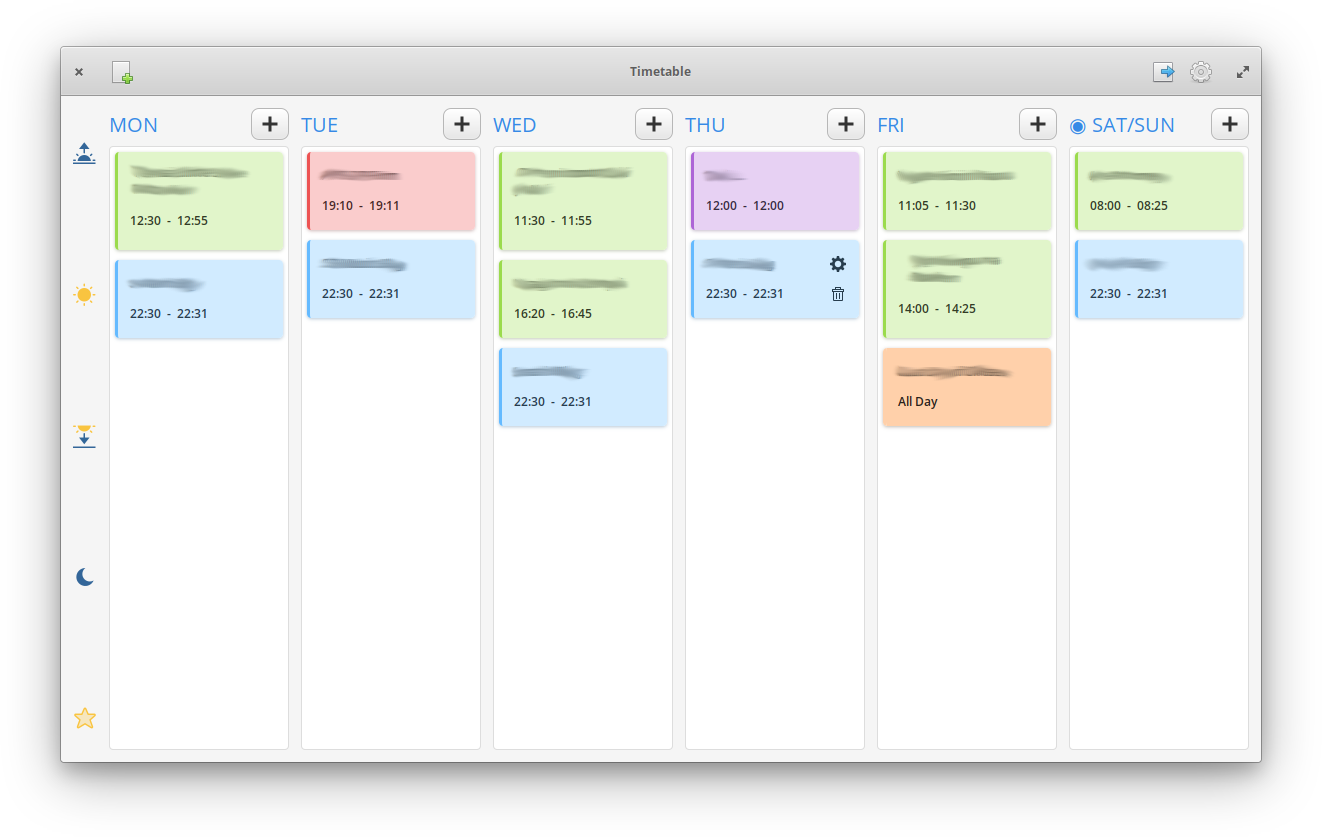
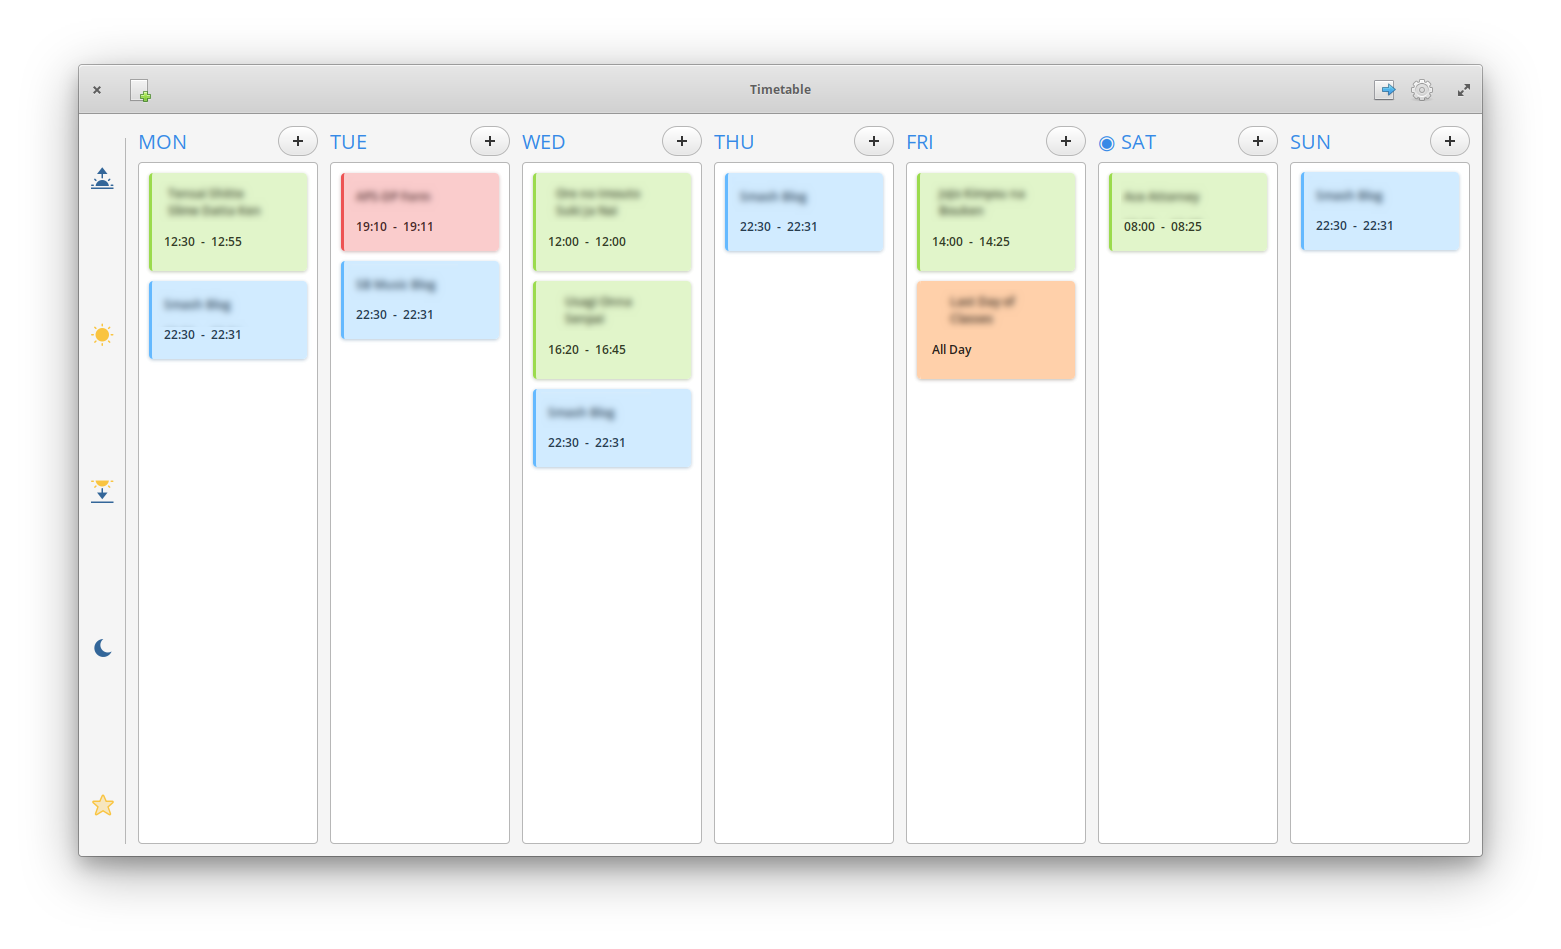
1.0.2 - Made separate columns for weekend days

Changed region(s): [[0.031, 0.0621, 0.9614, 0.9319]]

diff --git a/data/stylesheet.css b/data/stylesheet.css
@@ -25,10 +25,16 @@
 
 .tt-column {
     background-color: shade (@bg_color, 1.05);
-    padding: 5px;
-    border: 1px solid alpha(#000, 0.1);
+    border: 1px solid alpha(#000, 0.25);
+    padding: 10px;
     border-radius: 4px;
 }
+
+.tt-column-time {
+    border-right: 1px solid alpha(#000, 0.25);
+    padding-right: 10px;
+}
+
 .tt-column:backdrop {
     background-color: alpha (@bg_color, 0.24);
 }
@@ -38,37 +44,39 @@
         to bottom,
         shade (@bg_color, 1.05),
         shade (@base_color, 0.9)
-        );
+    );
     border: 1px solid alpha(#000, 0.25);
-    border-radius: 8px;
+    border-radius: 50px;
 }
 .tt-button image {
-    -gtk-icon-shadow: none;
+    -gtk-icon-shadow: 0px 0px 0px transparent;
     border-image-width: 0;
+    color: #333;
     box-shadow: transparent;
 }
 .tt-button:focus,
 .tt-button:hover {
     box-shadow:
-        0 1px 3px alpha (#3689e6, 0.12),
-        0 1px 2px alpha (#3689e6, 0.24);
+        0 1px 3px alpha (#3689e6, 0.24),
+        0 1px 2px alpha (#3689e6, 0.32);
 }
 .tt-button:active {
     background-image: linear-gradient(
         to bottom,
         shade (@base_color, 0.9),
         shade (@bg_color, 1.05)
-        );
+    );
+    border: 1px solid alpha(#000, 0.5);
 }
 .tt-button:backdrop {
     background-image: linear-gradient(
         to bottom,
         alpha (shade (@bg_color, 1.05), 0.24),
         alpha (shade (@base_color, 0.9), 0.24)
-        );
+    );
 }
 .tt-button image:backdrop {
-    color: #666;
+    color: #999;
 }
 
 .color-button {
